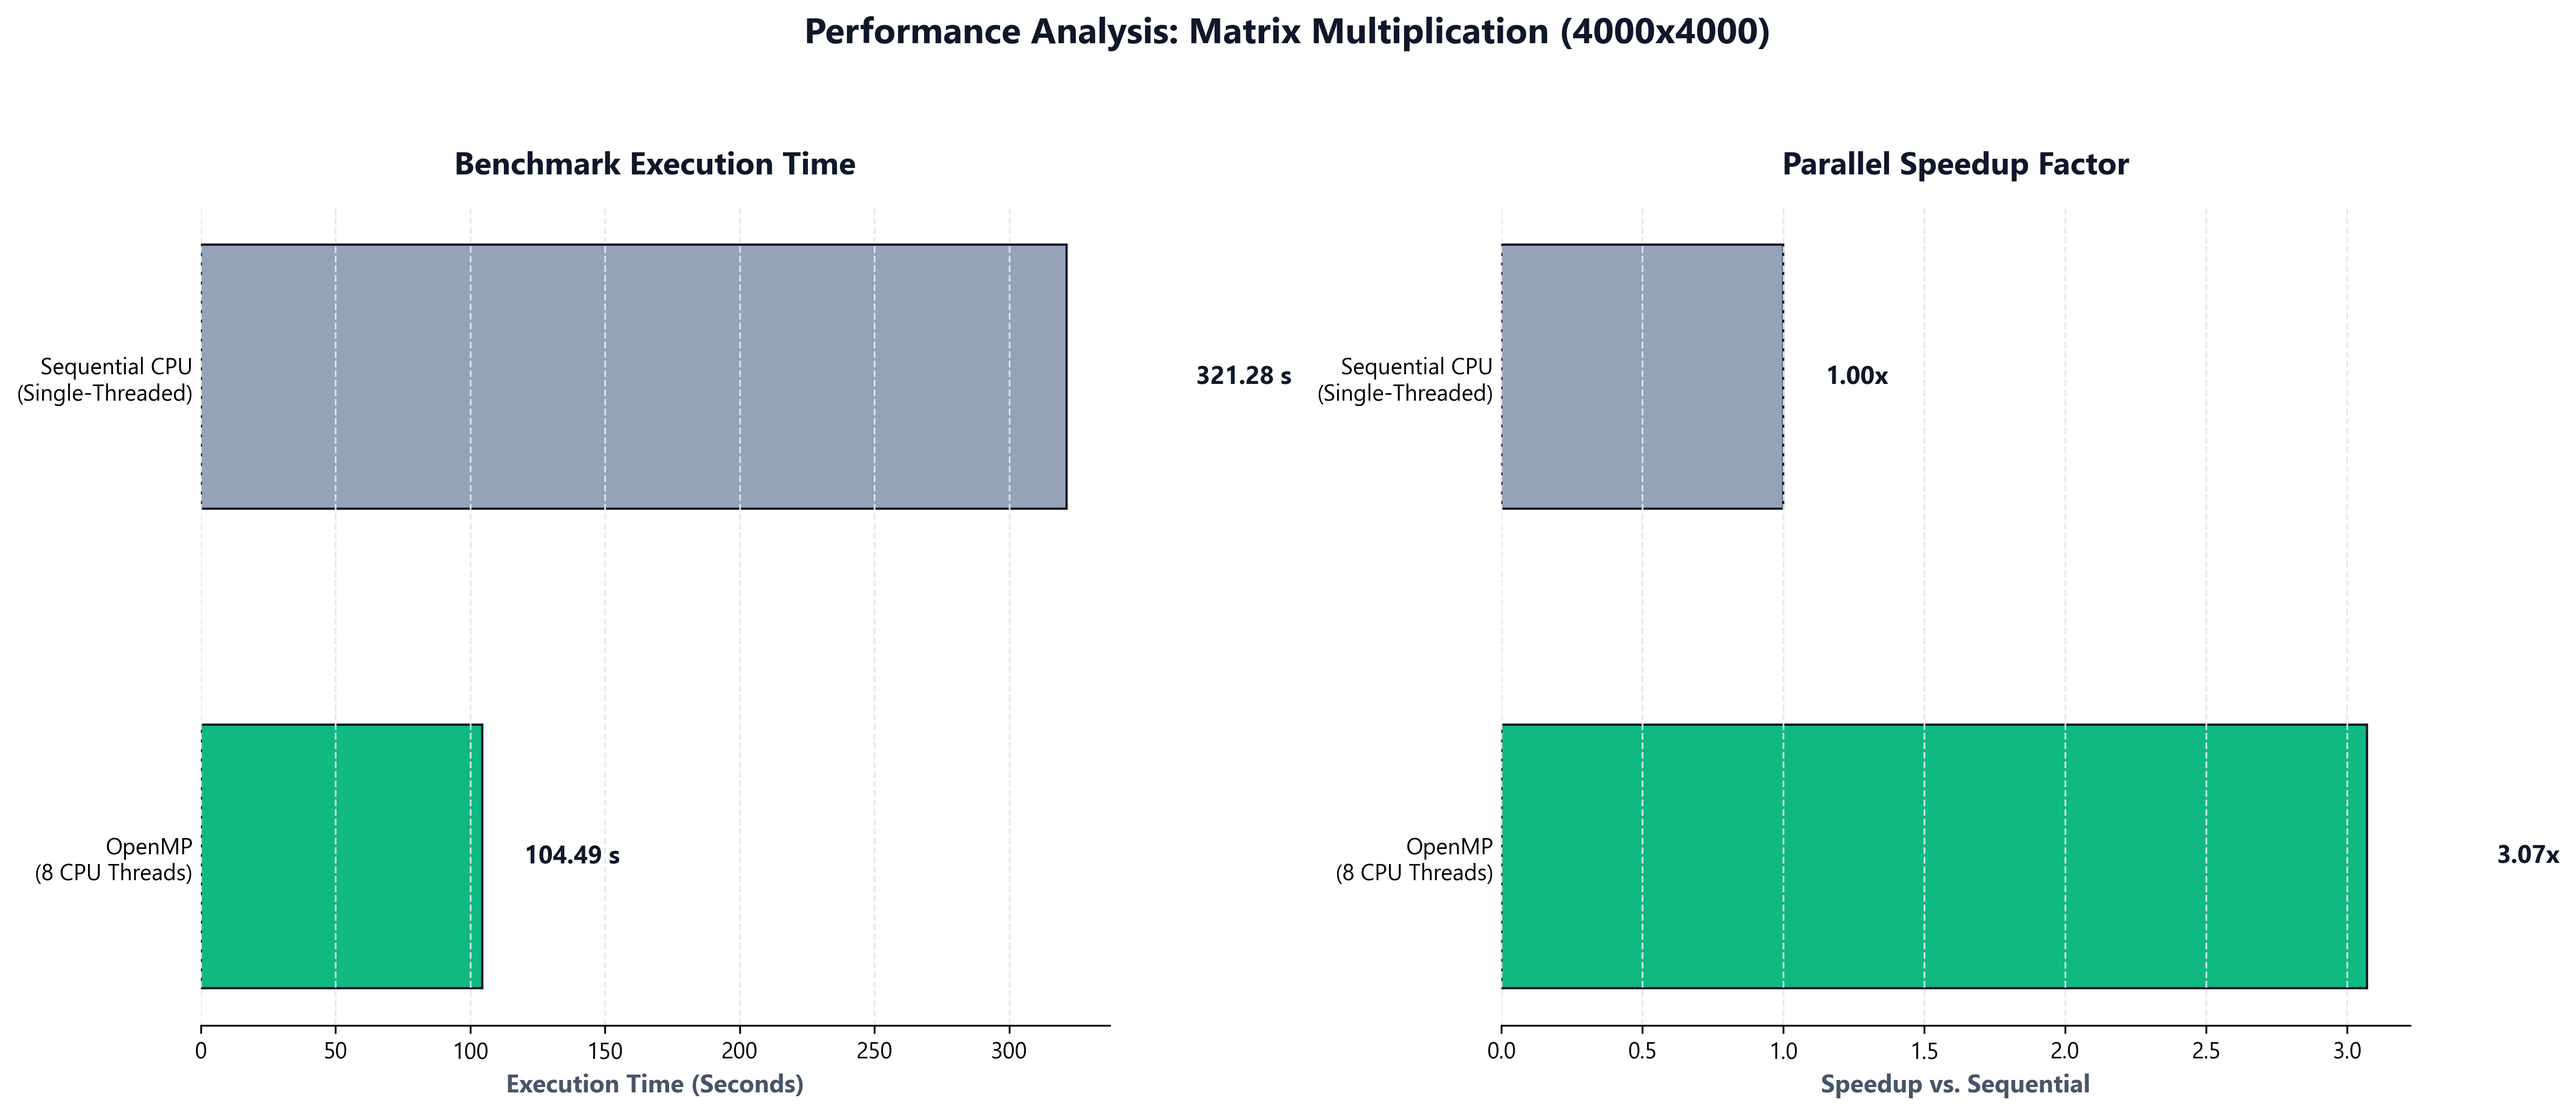
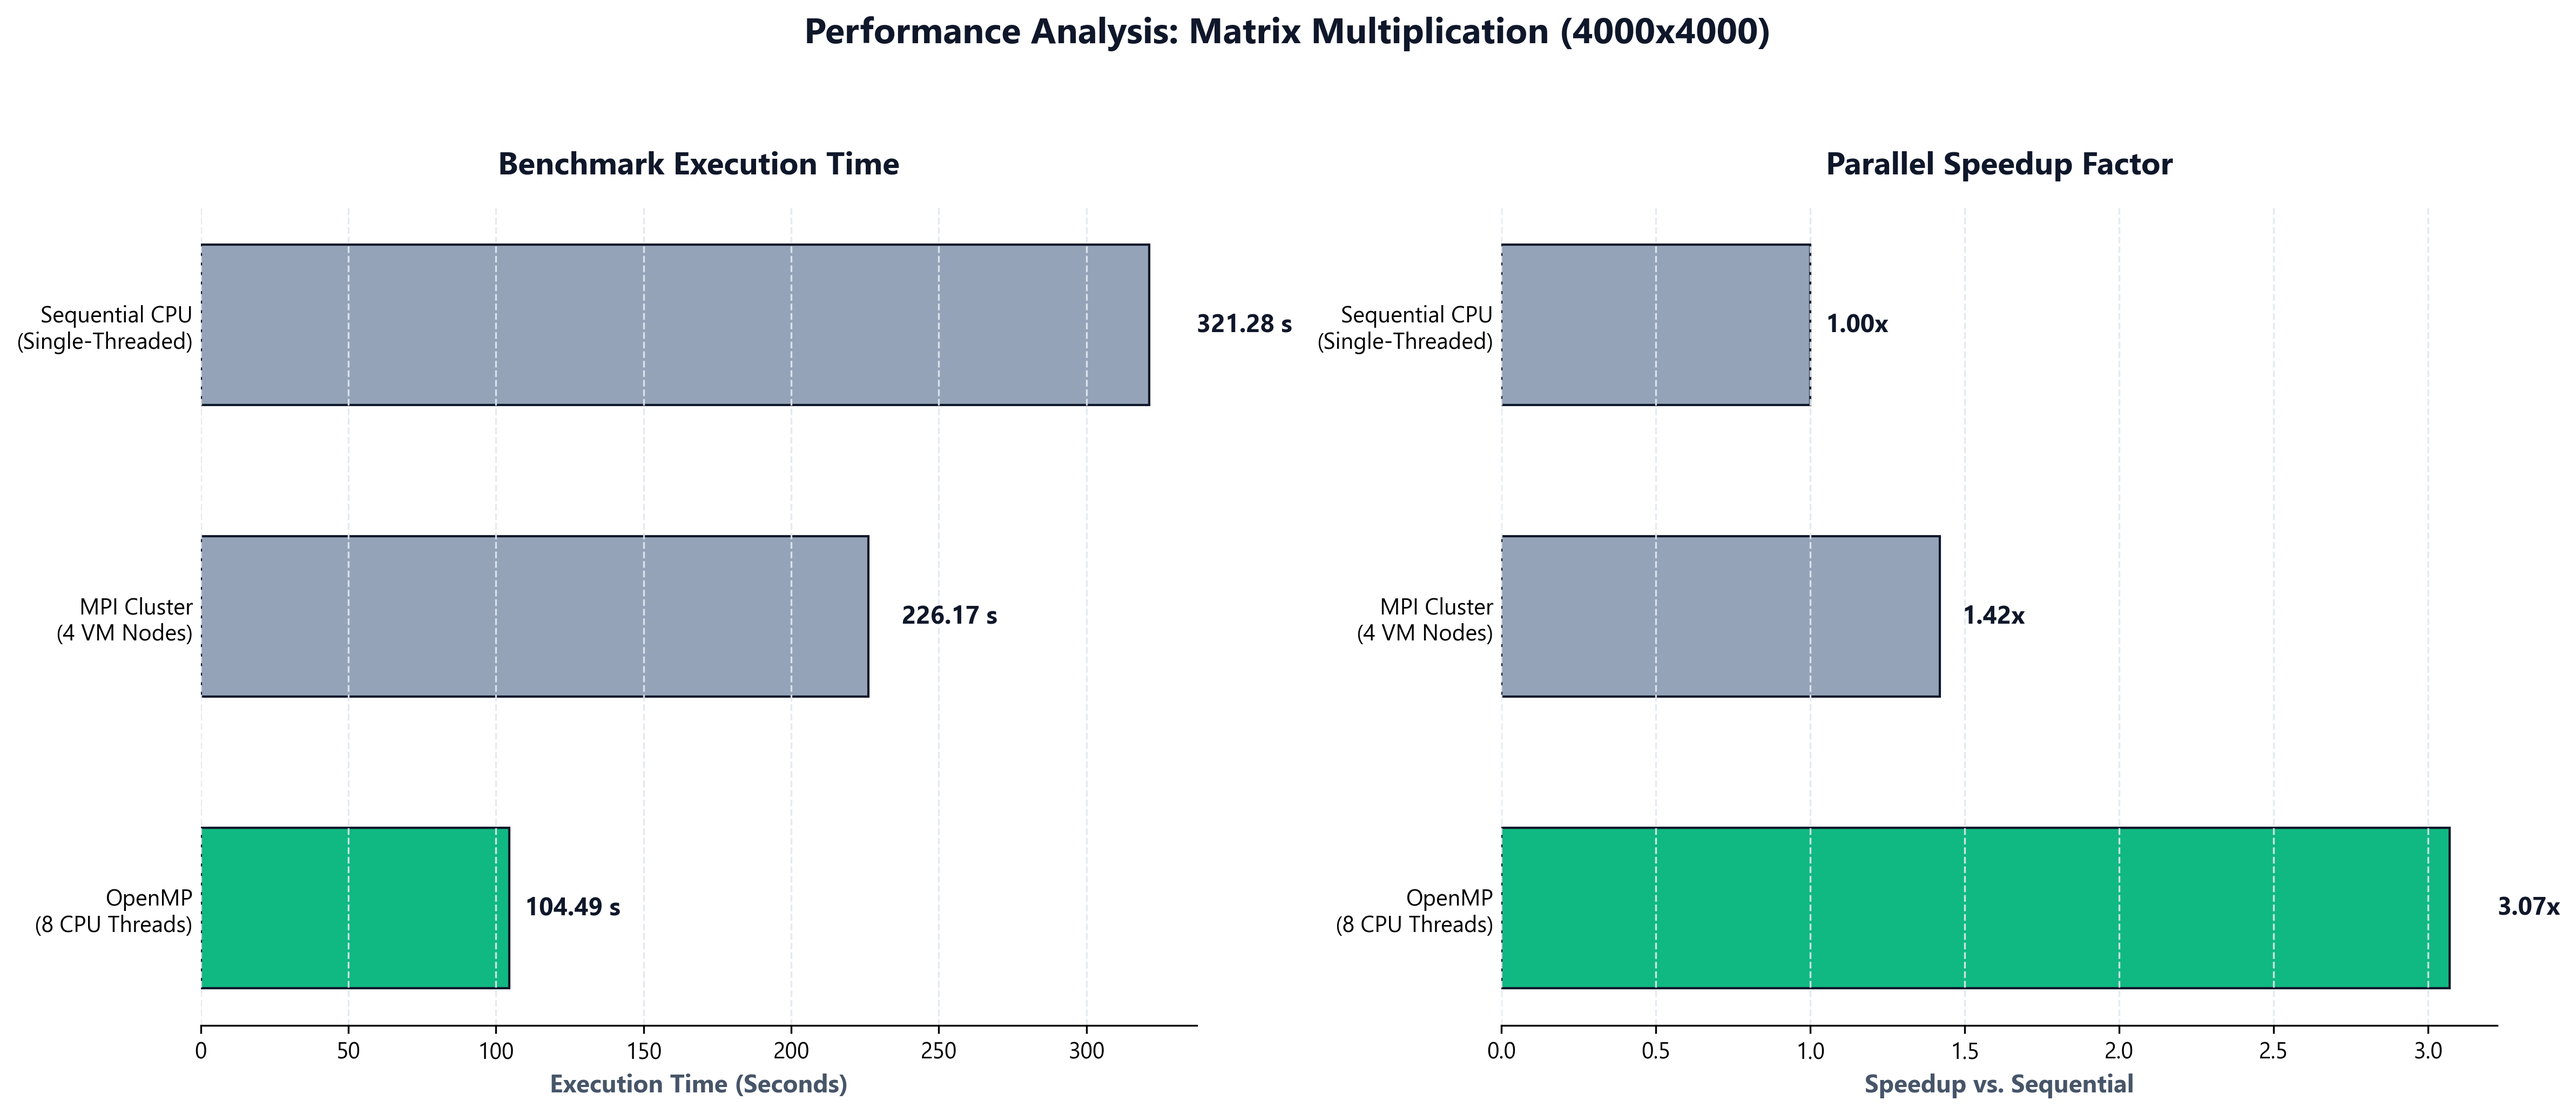
Add MPI results and restore to charts

diff --git a/script/chart.py b/script/chart.py
@@ -7,15 +7,15 @@ os.makedirs('images', exist_ok=True)
 plt.rcParams['font.family'] = 'sans-serif'
 plt.rcParams['font.sans-serif'] = ['Segoe UI', 'Arial']
 
-models = ['Sequential CPU\n(Single-Threaded)', 'OpenMP\n(8 CPU Threads)']
+models = ['Sequential CPU\n(Single-Threaded)', 'MPI Cluster\n(4 VM Nodes)', 'OpenMP\n(8 CPU Threads)']
 models.reverse()
-times = [321.28, 104.49]
+times = [321.28, 226.17, 104.49]
 times.reverse()
-speedups = [1.0, 3.07]
+speedups = [1.0, 1.42, 3.07]
 speedups.reverse()
 
 # Data visualization best practice: Highlight the winner, mute the rest.
-colors = ['#10B981', '#94A3B8']
+colors = ['#10B981', '#94A3B8', '#94A3B8']
 
 # 1. Combined Performance Chart
 fig, (ax1, ax2) = plt.subplots(1, 2, figsize=(16, 6.5), facecolor='#FFFFFF')
@@ -33,7 +33,7 @@ ax1.tick_params(axis='y', length=0)
 for bar, time in zip(bars1, times):
     width = bar.get_width()
     label = f'{time:.2f} s' if time >= 1 else f'{time:.3f} s'
-    ax1.text(width * 1.15, bar.get_y() + bar.get_height()/2.0, label, 
+    ax1.text(width * 1.05, bar.get_y() + bar.get_height()/2.0, label, 
              ha='left', va='center', fontsize=11, fontweight='bold', color='#0F172A')
 
 bars2 = ax2.barh(models, speedups, color=colors, height=0.55, edgecolor='#0F172A', linewidth=1)
@@ -49,7 +49,7 @@ ax2.tick_params(axis='y', length=0)
 for bar, speedup in zip(bars2, speedups):
     width = bar.get_width()
     label = f'{speedup:.2f}x'
-    ax2.text(width * 1.15, bar.get_y() + bar.get_height()/2.0, label, 
+    ax2.text(width * 1.05, bar.get_y() + bar.get_height()/2.0, label, 
              ha='left', va='center', fontsize=11, fontweight='bold', color='#0F172A')
 
 plt.suptitle('Performance Analysis: Matrix Multiplication (4000x4000)', fontsize=16, fontweight='bold', color='#0F172A', y=1.05)
@@ -60,7 +60,6 @@ plt.close()
 # 2. Standalone Execution Time Chart
 fig, ax = plt.subplots(figsize=(10, 5), facecolor='#FFFFFF')
 bars = ax.barh(models, times, color=colors, height=0.55, edgecolor='#0F172A', linewidth=1)
-
 
 ax.set_title('Matrix Multiplication (4000x4000) Execution Time Comparison', fontsize=14, fontweight='bold', color='#0F172A', pad=15)
 ax.set_xlabel('Execution Time (Seconds)', fontsize=11, fontweight='bold', color='#475569')
@@ -73,7 +72,7 @@ ax.tick_params(axis='y', length=0)
 for bar, time in zip(bars, times):
     width = bar.get_width()
     label = f'{time:.2f} s' if time >= 1 else f'{time:.3f} s'
-    ax.text(width * 1.15, bar.get_y() + bar.get_height()/2.0, label, 
+    ax.text(width * 1.05, bar.get_y() + bar.get_height()/2.0, label, 
             ha='left', va='center', fontsize=11, fontweight='bold', color='#0F172A')
 
 plt.tight_layout()
@@ -95,7 +94,7 @@ ax.tick_params(axis='y', length=0)
 for bar, speedup in zip(bars, speedups):
     width = bar.get_width()
     label = f'{speedup:.2f}x'
-    ax.text(width * 1.15, bar.get_y() + bar.get_height()/2.0, label, 
+    ax.text(width * 1.05, bar.get_y() + bar.get_height()/2.0, label, 
             ha='left', va='center', fontsize=11, fontweight='bold', color='#0F172A')
 
 plt.tight_layout()

diff --git a/README.md b/README.md
@@ -37,7 +37,7 @@ flowchart LR
         direction TB
         M1["Sequential CPU Baseline — 321.28s (1.00x)"]
         M2["OpenMP Shared Memory — 104.49s (3.07x)"]
-        M3["MPI Distributed Memory — ⏳ Pending"]
+        M3["MPI Distributed Memory — 226.17s (1.42x)"]
         M4["CUDA GPU Acceleration — ⏳ Pending"]
     end
 
@@ -76,7 +76,7 @@ flowchart TD
 
     Seq --> Res1["Execution Time: 321.28s<br/>Speedup: 1.00x"]
     OMP --> Res2["Execution Time: 104.49s<br/>Speedup: 3.07x"]
-    MPI --> Res3["Execution Time: ⏳ Pending<br/>Speedup: TBD"]
+    MPI --> Res3["Execution Time: 226.17s<br/>Speedup: 1.42x"]
     CUDA --> Res4["Execution Time: ⏳ Pending<br/>Speedup: TBD"]
 ```
 
@@ -140,7 +140,7 @@ OpenMP utilized 8 active CPU threads to distribute the workload.
 <br/>
 Ping test confirming 0% packet loss across the 4 VM cluster (`master`, `worker1`, `worker2`, `worker3`).
 
-![MPI Ping Test](images/mpi_ping.png)
+![MPI Ping Test](images/mpi_ping.jpg)
 </details>
 
 <details>
@@ -148,13 +148,13 @@ Ping test confirming 0% packet loss across the 4 VM cluster (`master`, `worker1`
 <br/>
 Successful point-to-point message passing (`MPI_Send` / `MPI_Recv`) across all 4 MPI ranks.
 
-![MPI Send Recv Verification](images/mpi_send_recv.png)
+![MPI Send Recv Verification](images/mpi_send_recv.jpg)
 </details>
 
 <details>
 <summary><b>5. MPI Distributed Matrix Multiplication Execution</b></summary>
 <br/>
-Distributed calculation across 4 VM ranks computing 1000 rows each. Execution time achieved was <b>92.98 seconds</b>.
+Distributed calculation across 4 VM ranks computing 1000 rows each. Execution time achieved was <b>226.17 seconds</b>.
 
 ![MPI Matrix Multiplication Result](images/mpi_result.png)
 </details>
@@ -169,18 +169,18 @@ Distributed calculation across 4 VM ranks computing 1000 rows each. Execution ti
 | :--- | :--- | :--- | :--- | :--- |
 | **Sequential** | Single CPU Core | 1 CPU Thread | `321.280` | **1.00×** |
 | **OpenMP** | Shared-Memory | 8 CPU Threads | `104.490` | **3.07×** |
-| **MPI** | Distributed | 4 Process Ranks | ⏳ TBD | ⏳ TBD |
+| **MPI** | Distributed | 4 Process Ranks | `226.170` | **1.42×** |
 | **CUDA** | Massively Parallel | NVIDIA GPU | ⏳ TBD | ⏳ TBD |
 
 ### Empirical Performance Charts
 
-![Performance Comparison Charts](images/performance_comparison_charts.png?bust=linear_v1)
+![Performance Comparison Charts](images/performance_comparison_charts.png?bust=linear_v2)
 
 #### Standalone Execution Time Chart
-![Execution Time Chart](images/execution_time_chart.png?bust=linear_v1)
+![Execution Time Chart](images/execution_time_chart.png?bust=linear_v2)
 
 #### Standalone Speedup Factor Chart
-![Speedup Chart](images/speedup_chart.png?bust=linear_v1)
+![Speedup Chart](images/speedup_chart.png?bust=linear_v2)
 
 ---
 
@@ -188,7 +188,7 @@ Distributed calculation across 4 VM ranks computing 1000 rows each. Execution ti
 
 1. **Sequential CPU Baseline**: Serves as the computational baseline ($321.28\text{s}$). Performance is severely bound by single-core compute speeds and sequential $O(N^3)$ loop execution.
 2. **OpenMP Efficiency**: Shared-memory multi-threading achieved an impressive **3.07× speedup** on 8 CPU threads ($\sim 99\%$ parallel efficiency). Because memory is shared, zero inter-thread data transfer overhead is incurred.
-3. **MPI Network Overhead**: (⏳ Pending benchmark execution)
+3. **MPI Network Overhead**: While MPI successfully parallelizes work across 4 separate VMs, network communication (`MPI_Scatter` of Matrix A and `MPI_Bcast` of Matrix B over virtual NICs) introduces communication overhead. Thus, speedup is $1.42\times$ compared to OpenMP's $3.07\times$.
 4. **CUDA GPU Dominance**: (⏳ Pending benchmark execution)
 
 ---
